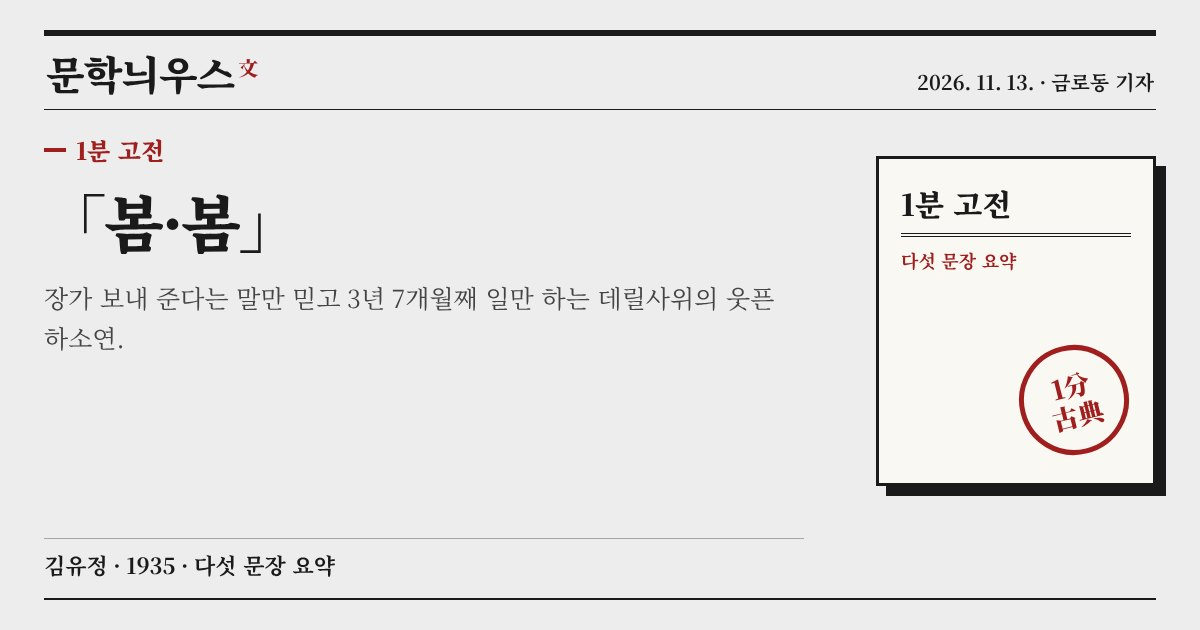
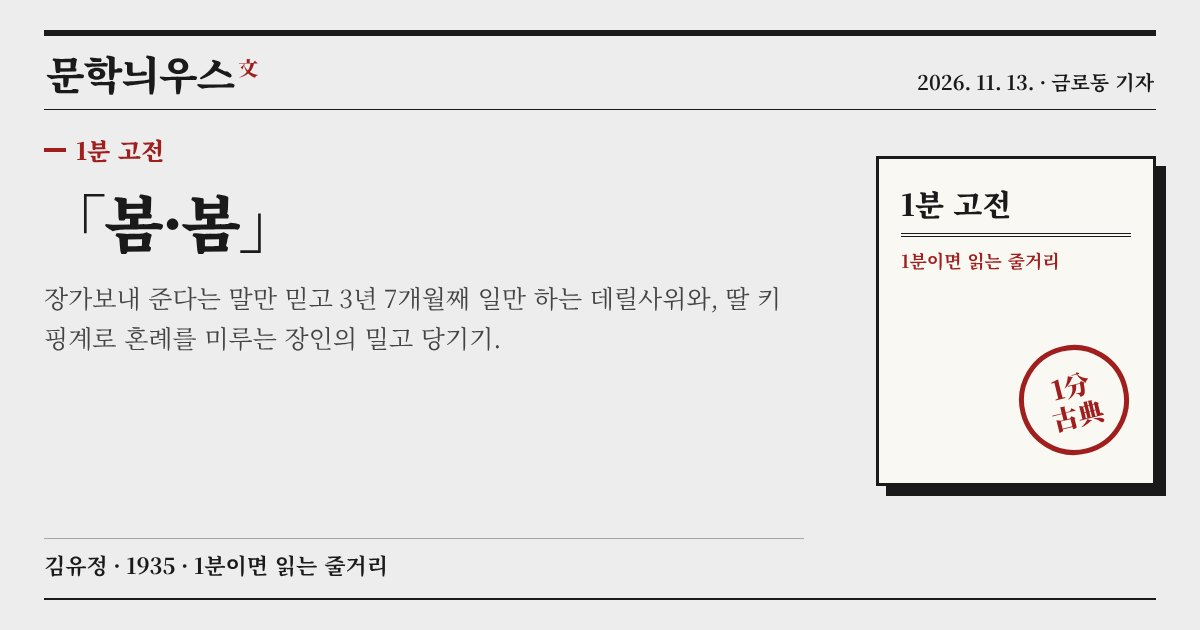
1분 고전을 다섯 줄 목록에서 이어 읽는 줄거리 글로(봄·봄 다시 씀)
Claude-Session: https://claude.ai/code/session_01XJFm6U7FnmFUMAzUHFzLuG

Changed region(s): [[0.0308, 0.4524, 0.6475, 0.573], [0.1542, 0.8746, 0.3392, 0.9349], [0.74, 0.3921, 0.8942, 0.4524]]

diff --git a/s/2026-11-13-classic.html b/s/2026-11-13-classic.html
@@ -1,21 +1,21 @@
 <!doctype html>
 <html lang="ko"><head><meta charset="utf-8">
 <meta name="viewport" content="width=device-width,initial-scale=1">
-<meta name="share-sig" content="2d3d38a214">
+<meta name="share-sig" content="16af5f1c99">
 <meta name="robots" content="noindex,follow">
 <title>1분 고전 · 김유정 「봄·봄」 · 문학늬우스</title>
-<meta name="description" content="장가 보내 준다는 말만 믿고 3년 7개월째 일만 하는 데릴사위의 웃픈 하소연. &#x27;나&#x27;는 점순이와 혼인시켜 준다는 약속을 믿고 데릴사위로 들어가 3년 7개월 동안 돈 한 푼 안 받고 일합니다. 성례…">
+<meta name="description" content="장가보내 준다는 말만 믿고 3년 7개월째 일만 하는 데릴사위와, 딸 키 핑계로 혼례를 미루는 장인의 밀고 당기기. 어느 산골 마을, &#x27;나&#x27;는 점순이와 혼인시켜 준다는 약속을 믿고 그 집에 데릴사위…">
 <meta property="og:type" content="article">
 <meta property="og:site_name" content="문학늬우스">
 <meta property="og:title" content="1분 고전 · 김유정 「봄·봄」">
-<meta property="og:description" content="장가 보내 준다는 말만 믿고 3년 7개월째 일만 하는 데릴사위의 웃픈 하소연. &#x27;나&#x27;는 점순이와 혼인시켜 준다는 약속을 믿고 데릴사위로 들어가 3년 7개월 동안 돈 한 푼 안 받고 일합니다. 성례…">
+<meta property="og:description" content="장가보내 준다는 말만 믿고 3년 7개월째 일만 하는 데릴사위와, 딸 키 핑계로 혼례를 미루는 장인의 밀고 당기기. 어느 산골 마을, &#x27;나&#x27;는 점순이와 혼인시켜 준다는 약속을 믿고 그 집에 데릴사위…">
 <meta property="og:url" content="https://mnews.jintar.co.kr/s/2026-11-13-classic.html">
 <meta property="og:image" content="https://mnews.jintar.co.kr/s/2026-11-13-classic.jpg">
 <meta property="og:image:width" content="1200"><meta property="og:image:height" content="630">
 <meta property="og:locale" content="ko_KR">
 <meta name="twitter:card" content="summary_large_image">
 <meta name="twitter:title" content="1분 고전 · 김유정 「봄·봄」">
-<meta name="twitter:description" content="장가 보내 준다는 말만 믿고 3년 7개월째 일만 하는 데릴사위의 웃픈 하소연. &#x27;나&#x27;는 점순이와 혼인시켜 준다는 약속을 믿고 데릴사위로 들어가 3년 7개월 동안 돈 한 푼 안 받고 일합니다. 성례…">
+<meta name="twitter:description" content="장가보내 준다는 말만 믿고 3년 7개월째 일만 하는 데릴사위와, 딸 키 핑계로 혼례를 미루는 장인의 밀고 당기기. 어느 산골 마을, &#x27;나&#x27;는 점순이와 혼인시켜 준다는 약속을 믿고 그 집에 데릴사위…">
 <meta name="twitter:image" content="https://mnews.jintar.co.kr/s/2026-11-13-classic.jpg">
 <link rel="icon" href="../favicon.svg" type="image/svg+xml">
 <script>location.replace("../?d=2026-11-13#classic")</script>

diff --git a/scripts/make_share.py b/scripts/make_share.py
@@ -57,8 +57,8 @@ def content(D, sec):
                 "O일까, X일까?", esc(clip(T[0]["q"], 70)) if T else "", None, f"{len(T)}문항 · 정답과 해설은 지면에서")
     if sec == "classic":
         C = D["classic"]
-        return (f"1분 고전 · {C['writer']} 「{C['title']}」", clip(C.get("oneline", "") + " " + " ".join(C.get("lines", [])), 110),
-                f"「{esc(C['title'])}」", esc(clip(C.get("oneline"), 80)), None, f"{esc(C['writer'])} · {C['year']} · 다섯 문장 요약")
+        return (f"1분 고전 · {C['writer']} 「{C['title']}」", clip(C.get("oneline", "") + " " + " ".join(C.get("story") or C.get("lines", [])), 110),
+                f"「{esc(C['title'])}」", esc(clip(C.get("oneline"), 80)), None, f"{esc(C['writer'])} · {C['year']} · 1분이면 읽는 줄거리")
     if sec == "rx":
         return ("기분 처방전 · 오늘 기분에 맞는 문장 한 알", "지쳤어요·울적해요·불안해요·화나요·설레요·멍해요 — 기분을 고르면 금로동 약사가 문장 한 알을 지어 드립니다.",
                 "오늘 기분에<br>문장 한 알", "기분을 고르면 출처가 분명한 문장을 처방해 드려요.", None, "문학 약국 · 금로동 약사")
@@ -152,7 +152,7 @@ def main(dates):
                 lw = 740
             elif sec in ("rx", "classic"):
                 lbl = "文學<br>藥局" if sec == "rx" else "1分<br>古典"
-                right = f'<div class="r" style="width:300px;top:120px"><div style="width:280px;height:330px;margin-left:auto;background:#f9f8f3;border:3px solid #1A1A1A;box-shadow:10px 10px 0 #1A1A1A;position:relative;padding:22px"><div style="font-size:30px;font-weight:900;border-bottom:4px double #1A1A1A;padding-bottom:8px">{"문학 약국" if sec=="rx" else "1분 고전"}</div><div style="font-size:18px;color:#A01E1E;font-weight:700;margin-top:10px">{"처방전 · 內服藥" if sec=="rx" else "다섯 문장 요약"}</div><div style="position:absolute;right:24px;bottom:28px;width:110px;height:110px;border:5px solid #A01E1E;border-radius:50%;color:#A01E1E;font-size:26px;font-weight:900;line-height:1.15;display:grid;place-items:center;text-align:center;transform:rotate(-14deg)">{lbl}</div></div></div>'
+                right = f'<div class="r" style="width:300px;top:120px"><div style="width:280px;height:330px;margin-left:auto;background:#f9f8f3;border:3px solid #1A1A1A;box-shadow:10px 10px 0 #1A1A1A;position:relative;padding:22px"><div style="font-size:30px;font-weight:900;border-bottom:4px double #1A1A1A;padding-bottom:8px">{"문학 약국" if sec=="rx" else "1분 고전"}</div><div style="font-size:18px;color:#A01E1E;font-weight:700;margin-top:10px">{"처방전 · 內服藥" if sec=="rx" else "1분이면 읽는 줄거리"}</div><div style="position:absolute;right:24px;bottom:28px;width:110px;height:110px;border:5px solid #A01E1E;border-radius:50%;color:#A01E1E;font-size:26px;font-weight:900;line-height:1.15;display:grid;place-items:center;text-align:center;transform:rotate(-14deg)">{lbl}</div></div></div>'
                 lw = 760
             elif img and os.path.exists(img):
                 wr = sec == "writer"

diff --git a/README.md b/README.md
@@ -15,7 +15,7 @@
 - `data/rx.json` — 기분 처방전 약장. moods(기분 6개)와 items(기분별 문장: text, 외국어면 orig·translator, writer, work, year, dose=복용법, sources). 지면이 기분 단추를 누를 때마다 같은 기분 문장 중 하나를 고른다. 매일 발행 때 기분마다 새 문장 1개씩(6개) 추가하고 `added`에 그날 날짜를 적는다(같은 문장 중복 금지). 지면은 그 기분을 처음 누르면 '오늘 들어온 약'을 먼저 보여 주고, 다시 누르면 약장 전체에서 고른다.
 
 ## 지면 순서
-제호 → 오늘의 문장(가장 크게 + 뜻·장면·효과) → 오늘의 시(전문+삽화+읽기+한 줄) · 오늘의 소설 구절(원문·직접 번역+삽화+맥락+문체) → 오늘의 문인 · 낱말 퍼즐 · 문학 상식(OX 3문항) → 1분 고전(today.json `classic`: title, writer, year, where, oneline, lines 5개, ending, why, sources) · 기분 처방전(약봉투) → 판권
+제호 → 오늘의 문장(가장 크게 + 뜻·장면·효과) → 오늘의 시(전문+삽화+읽기+한 줄) · 오늘의 소설 구절(원문·직접 번역+삽화+맥락+문체) → 오늘의 문인 · 낱말 퍼즐 · 문학 상식(OX 3문항) → 1분 고전(today.json `classic`: title, writer, year, where, oneline, story(줄거리 3~4문단, 결말 직전까지 자연스럽게 이어지게), ending, why, sources) · 기분 처방전(약봉투) → 판권
 
 ## 규칙
 - 국내 7 : 국외 3(주 단위). 같은 작가는 30일 안에 다시 쓰지 않는다.
